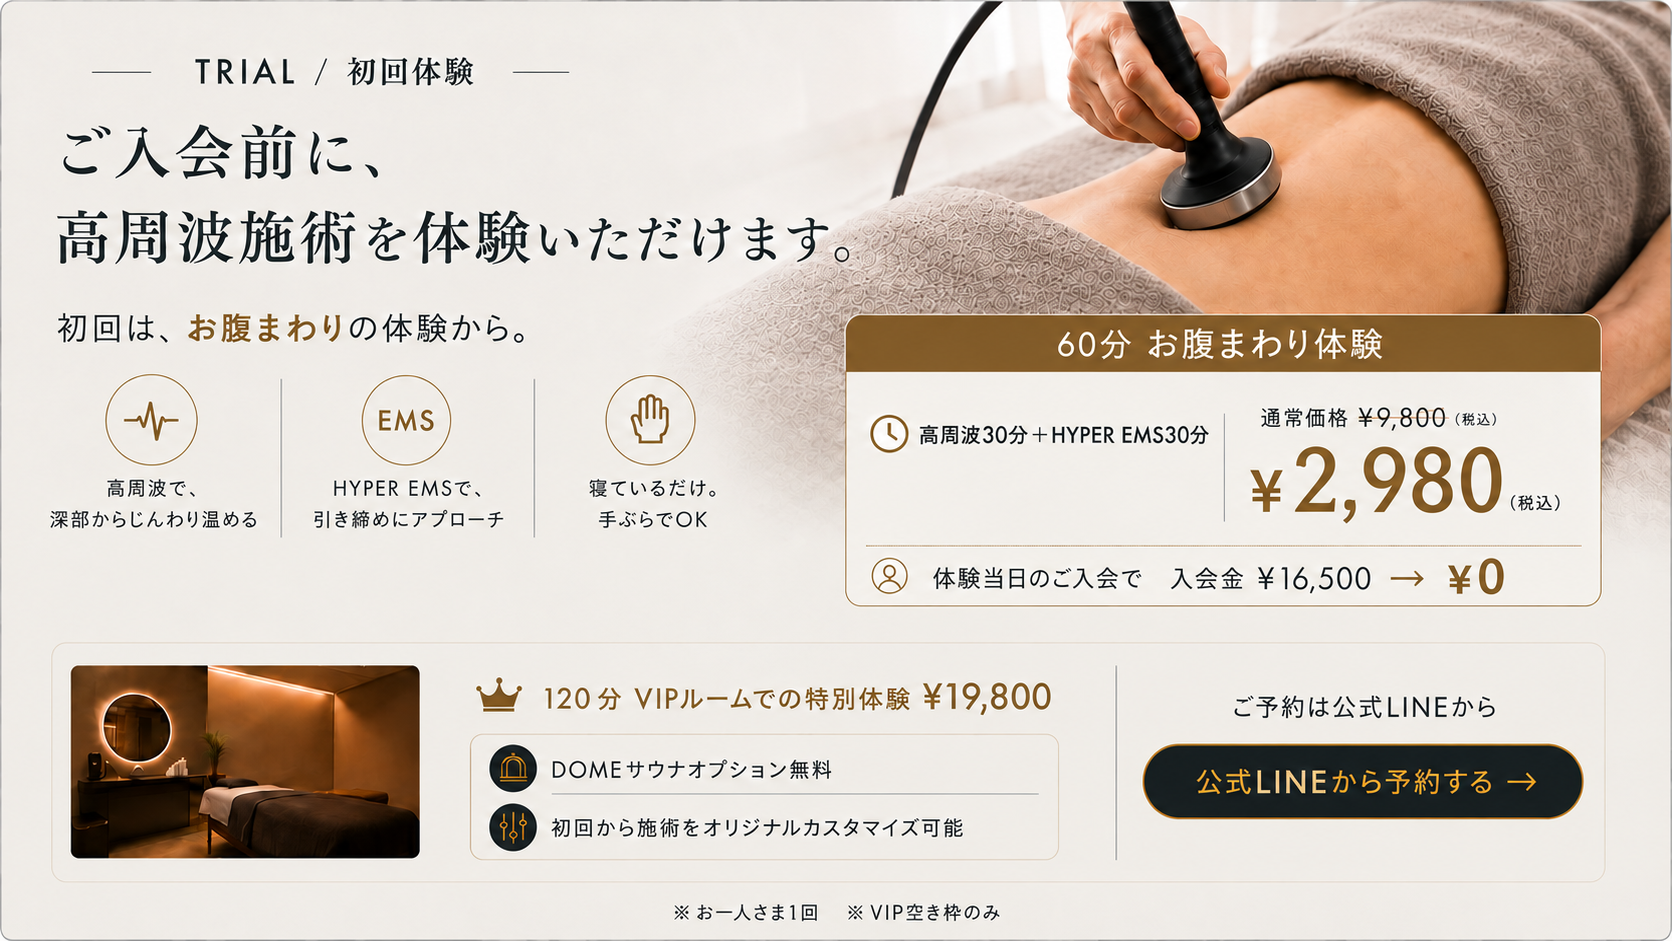
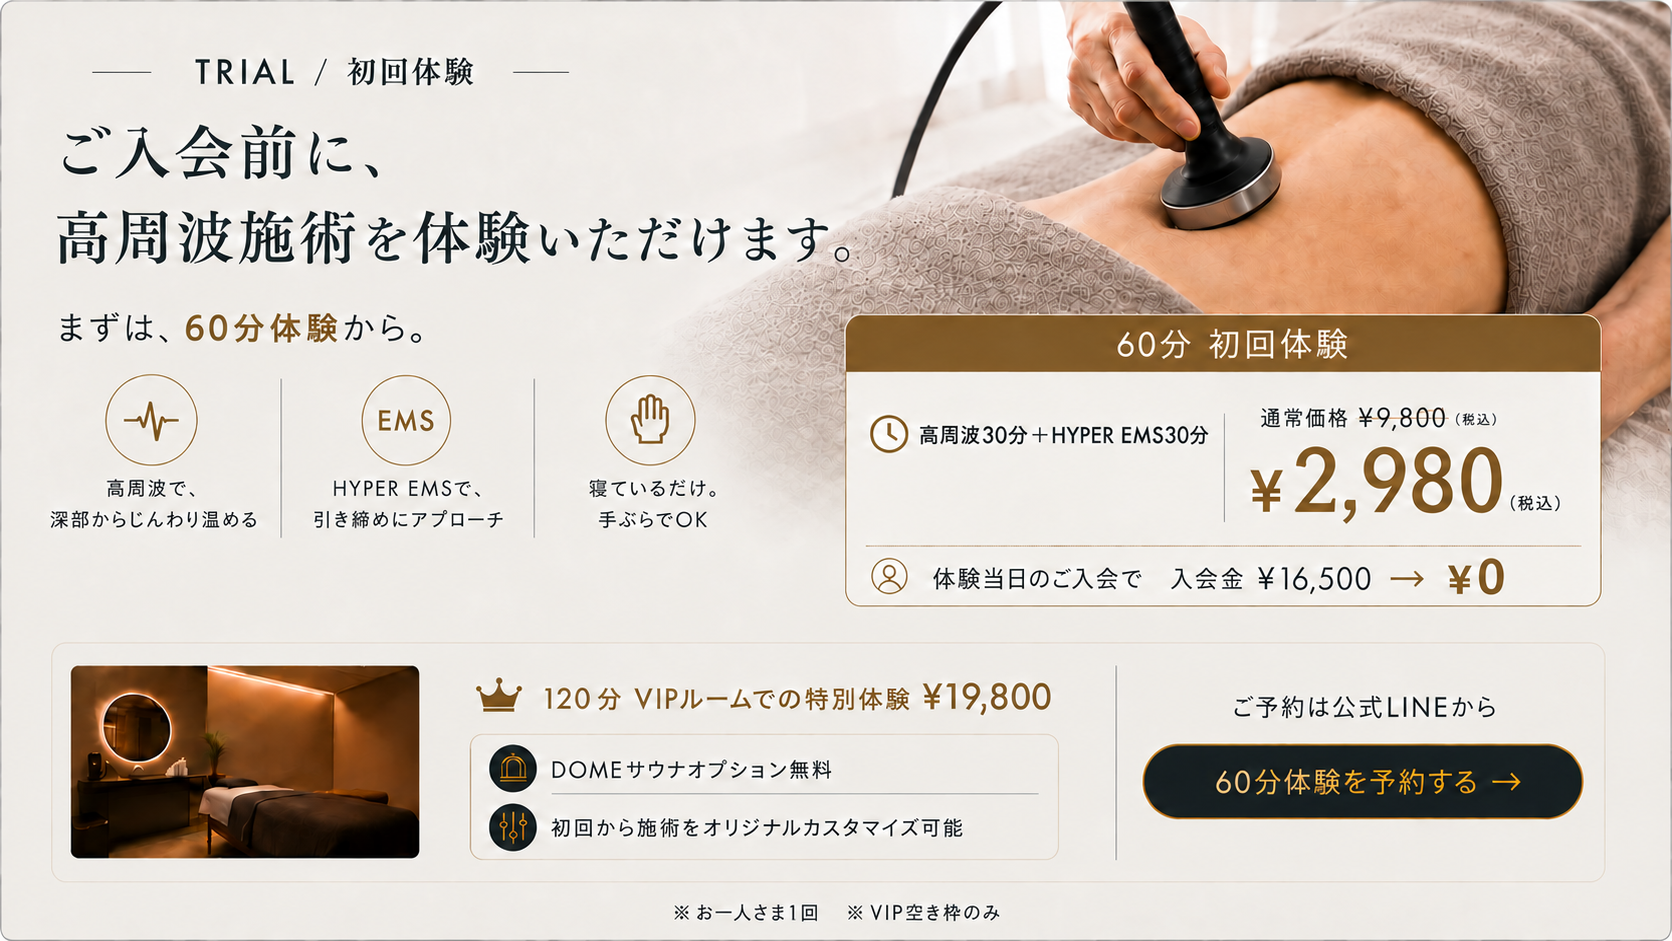
男性向け画像と60分体験CTAを更新

diff --git a/price.html b/price.html
@@ -16,7 +16,7 @@
 <link rel="icon" type="image/png" href="favicon.png?v=3">
 <link rel="apple-touch-icon" href="apple-touch-icon.png">
 <meta name="theme-color" content="#faf9f6">
-<link rel="stylesheet" href="style.css?v=0908trial">
+<link rel="stylesheet" href="style.css?v=0908trial2">
 <style>
 .faqd{max-width:720px;margin:0 auto}
 .faqd details{background:#fff;border:1px solid var(--line);border-radius:8px;margin-bottom:10px;overflow:hidden}
@@ -369,7 +369,7 @@ document.querySelectorAll('.rv').forEach(el=>io.observe(el));
 </script>
 <div class="bbar">
   <a class="bl" href="https://visuallabo-line.visuallabo.workers.dev/auth/line?" target="_blank" rel="noopener" data-cta="bbar_line_contact"><svg viewBox="0 0 24 24" aria-hidden="true"><path d="M12 2C6.48 2 2 5.66 2 10.15c0 4.02 3.57 7.39 8.4 8.03.33.07.77.22.89.5.1.26.07.66.03.92l-.14.86c-.04.26-.2 1.01.89.55 1.09-.46 5.87-3.46 8.01-5.92C21.56 13.44 22 11.87 22 10.15 22 5.66 17.52 2 12 2z"/></svg>公式LINE相談</a>
-  <a class="br" href="https://visuallabo-line.visuallabo.workers.dev/auth/line?" target="_blank" rel="noopener" data-cta="bbar_reserve" aria-label="公式LINEから初回体験60分2,980円を予約する">体験予約<em>¥2,980</em></a>
+  <a class="br" href="https://visuallabo-line.visuallabo.workers.dev/auth/line?" target="_blank" rel="noopener" data-cta="bbar_reserve" aria-label="公式LINEから60分体験2,980円を予約する"><span>60分体験を予約する</span><em>公式LINE｜¥2,980</em></a>
 </div>
 <script type="application/ld+json">
 {"@context": "https://schema.org", "@type": "BreadcrumbList", "itemListElement": [{"@type": "ListItem", "position": 1, "name": "ホーム", "item": "https://kazakami123.github.io/visuallabo-shimbashi/"}, {"@type": "ListItem", "position": 2, "name": "料金・プラン", "item": "https://kazakami123.github.io/visuallabo-shimbashi/price.html"}]}

diff --git a/style.css b/style.css
@@ -543,6 +543,15 @@ section[id]{scroll-margin-top:84px}
 @media(max-width:760px){.bbar{bottom:0;width:100%;border-radius:0;border-left:none;border-right:none;border-bottom:none;padding:8px 10px calc(8px + env(safe-area-inset-bottom))}.bbar a{font-size:13.5px}}
 body{padding-bottom:86px}
 
+/* price page: mobile CTA is one clear, comfortably sized LINE reservation action */
+@media(max-width:760px){
+  .price-page .bbar{gap:0;padding:7px 10px calc(7px + env(safe-area-inset-bottom))}
+  .price-page .bbar .bl{display:none}
+  .price-page .bbar .br{width:100%;min-height:54px;flex:1 1 100%;flex-direction:column;gap:1px;padding:5px 14px;line-height:1.2}
+  .price-page .bbar .br span{font-size:14px;white-space:nowrap}
+  .price-page .bbar .br em{margin-left:0;font-size:11px;font-weight:600;letter-spacing:.04em;white-space:nowrap}
+}
+
 /* モバイルは本文の<br>を無効化して自然に折り返す（2026-08-09） */
 @media(max-width:600px){.body-txt br{display:none}}
 
